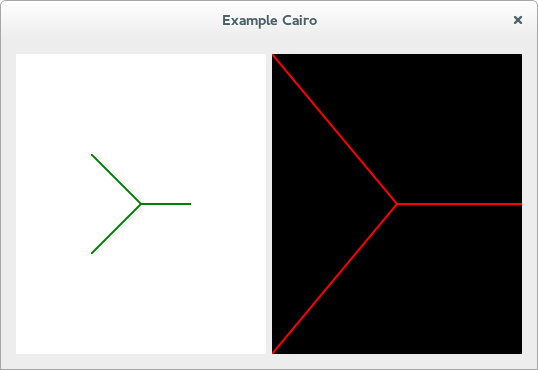
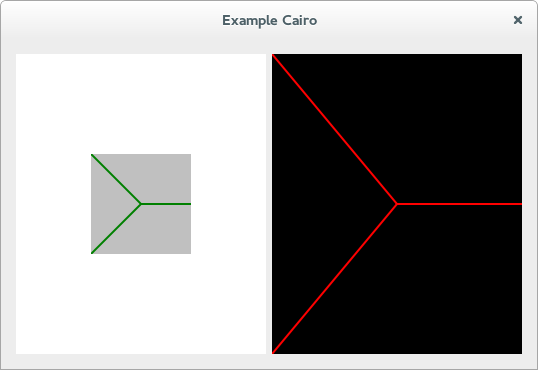
Changed clutter background

Changed region(s): [[0.1487, 0.4162, 0.3569, 0.6838]]

diff --git a/egCairo.js b/egCairo.js
@@ -163,8 +163,8 @@ App.prototype.draw = function(ctx, height, width, color) {
         // Set black background for 'red'
         ctx.setSourceRGBA(0, 0, 0, 1);
     } else {
-        // Set white background
-        ctx.setSourceRGBA(1, 1, 1, 1);
+        // Set grey background
+        ctx.setSourceRGBA(0.75, 0.75, 0.75, 1);
     }
     ctx.paint();
     ctx.restore();
